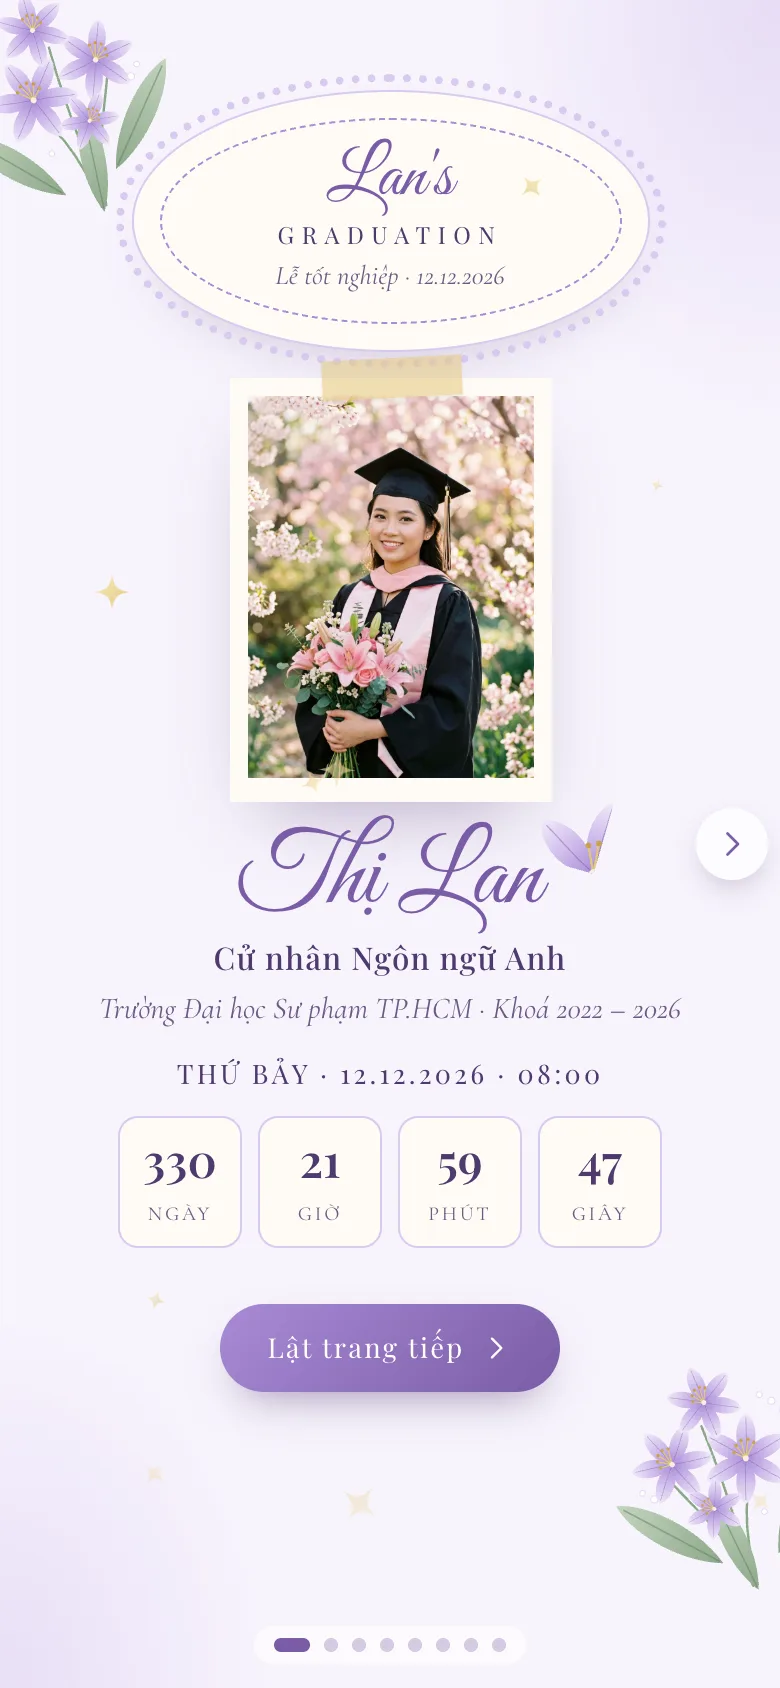
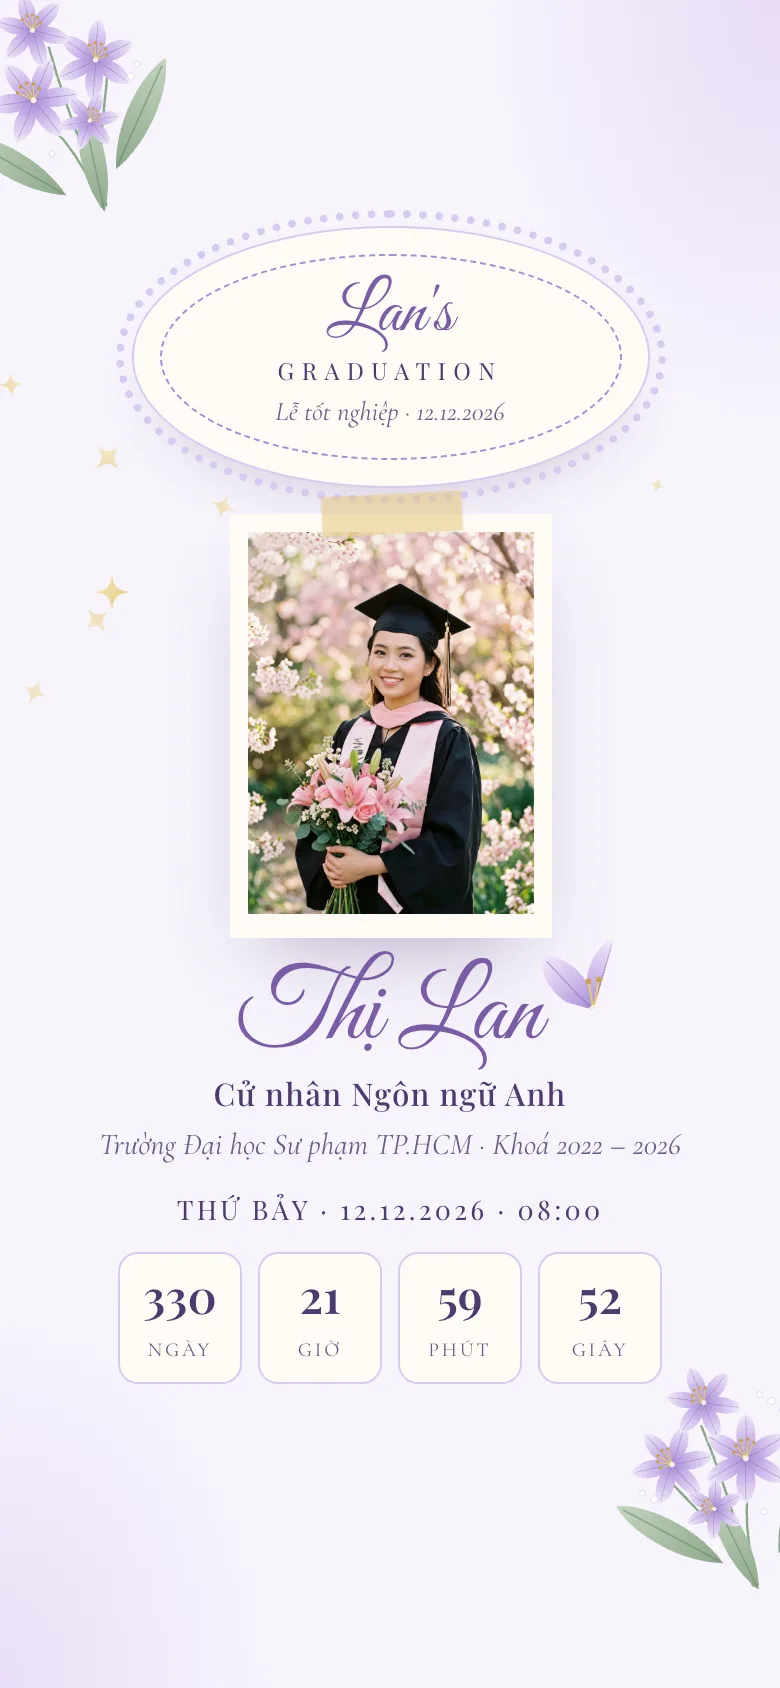
fix: thiệp #295 Lavender Storybook — mobile cuộn dọc, desktop giữ lật sách
- Bỏ pager vuốt ngang trên mobile/tablet: 8 trang xếp dọc, mỗi trang ≥ 1 màn hình, reveal bằng IntersectionObserver
- Desktop ≥ 1024px vẫn mở sách lật 3D 4 trang đôi
- Chụp lại shots, cập nhật mô tả catalog + prompt.txt

diff --git a/products/Invitation/Other/gen_295_tot-nghiep-storybook-flip/index.html b/products/Invitation/Other/gen_295_tot-nghiep-storybook-flip/index.html
@@ -91,7 +91,6 @@ a{color:var(--violet)}
 /* ===================== Pager mobile ===================== */
 #app{position:absolute; top:0; left:0; width:100%; height:100vh; height:100dvh; overflow:hidden; background:var(--lav-50)}
 #track{display:flex; height:100%; width:100%; will-change:transform; transition:transform .55s var(--ease)}
-#track.dragging{transition:none}
 .pg{flex:0 0 100%; width:100%; height:100%; position:relative; overflow-y:auto; overflow-x:hidden; overscroll-behavior:contain;
   touch-action:pan-y; -webkit-overflow-scrolling:touch; scrollbar-width:none; background:var(--lav-50)}
 .pg::-webkit-scrollbar{display:none}
@@ -112,16 +111,6 @@ a{color:var(--violet)}
 .next-btn svg{width:16px; height:16px}
 .center{display:flex; flex-direction:column; align-items:center}
 
-.arrow{position:absolute; z-index:20; top:50%; transform:translateY(-50%); width:36px; height:36px; border-radius:50%; border:0; cursor:pointer;
-  background:rgba(255,255,255,.78); color:var(--violet); box-shadow:0 6px 16px -6px rgba(78,58,110,.45); display:grid; place-items:center;
-  backdrop-filter:blur(6px); -webkit-backdrop-filter:blur(6px); transition:opacity .3s}
-.arrow.prev{left:6px} .arrow.next{right:6px}
-.arrow svg{width:18px; height:18px}
-.arrow[disabled]{opacity:0; pointer-events:none}
-#dots{position:absolute; z-index:20; left:50%; bottom:12px; transform:translateX(-50%); display:flex; gap:7px; padding:6px 10px; border-radius:20px;
-  background:rgba(255,255,255,.62); backdrop-filter:blur(8px); -webkit-backdrop-filter:blur(8px)}
-#dots button{width:7px; height:7px; border-radius:50%; border:0; background:rgba(122,91,166,.3); cursor:pointer; transition:width .3s, background .3s; padding:0}
-#dots button.on{width:18px; border-radius:4px; background:var(--violet)}
 .swipe-hint{position:absolute; z-index:21; left:50%; bottom:42px; transform:translateX(-50%); padding:8px 14px; border-radius:20px; white-space:nowrap;
   background:rgba(78,58,110,.86); color:#fff; font-family:var(--serif); font-size:.72rem; letter-spacing:.08em; opacity:0; transition:opacity .4s; pointer-events:none}
 .swipe-hint.show{opacity:1}
@@ -388,6 +377,19 @@ textarea.inp{min-height:86px; resize:vertical}
   .badge{width:min(70%,270px)} .hero-card{width:min(46%,180px); margin-top:20px} .hero-name{margin-top:12px} .pin{padding-top:52px}
 }
 
+/* ===================== Mobile/tablet: cuộn dọc từng trang (desktop mới lật sách) ===================== */
+@media not all and (min-width:1024px) and (min-height:560px){
+  body{height:auto; min-height:100dvh; overflow-x:hidden; overflow-y:auto}
+  body.hold{height:100dvh; overflow:hidden}
+  #app{position:relative; height:auto; overflow:visible}
+  #track{display:block; height:auto; transform:none !important; transition:none}
+  .pg{height:auto; overflow:visible; touch-action:auto}
+  .pin{min-height:100vh; min-height:100dvh; display:flex; flex-direction:column; justify-content:center}
+  .next-btn{display:none}
+  .swipe-hint{position:fixed; bottom:22px}
+  #fx,#wishLayer{position:fixed}
+}
+
 @media (prefers-reduced-motion:reduce){
   *,*::before,*::after{animation-duration:.01ms !important; animation-iteration-count:1 !important; transition-duration:.01ms !important}
   .rv{opacity:1; transform:none}
@@ -395,7 +397,7 @@ textarea.inp{min-height:86px; resize:vertical}
 }
 </style>
 </head>
-<body>
+<body class="hold">
 
 <svg class="defs" aria-hidden="true">
   <defs>
@@ -481,7 +483,7 @@ textarea.inp{min-height:86px; resize:vertical}
   <p class="cv-hint">Chạm vào con dấu để mở thiệp</p>
 </div>
 
-<!-- ===================== APP MOBILE: 8 TRANG LẬT NGANG ===================== -->
+<!-- ===================== MOBILE: 8 TRANG CUỘN DỌC (desktop chuyển thành sách lật) ===================== -->
 <div id="app">
   <div id="track">
 
@@ -722,10 +724,7 @@ textarea.inp{min-height:86px; resize:vertical}
 
   </div>
 
-  <button class="arrow prev" id="prevBtn" type="button" aria-label="Trang trước" disabled><svg aria-hidden="true"><use href="#i-arrow-l"/></svg></button>
-  <button class="arrow next" id="nextBtn" type="button" aria-label="Trang sau"><svg aria-hidden="true"><use href="#i-arrow-r"/></svg></button>
-  <nav id="dots" aria-label="Các trang thiệp"></nav>
-  <div class="swipe-hint scroll-hint" id="swipeHint">Vuốt sang trái để lật trang</div>
+  <div class="swipe-hint scroll-hint" id="swipeHint">Vuốt lên để xem tiếp</div>
 </div>
 
 <!-- ===================== DESKTOP: SÁCH 4 TRANG ĐÔI ===================== -->
@@ -920,56 +919,28 @@ textarea.inp{min-height:86px; resize:vertical}
     form.reset();
   });
 
-  /* ---------- Pager mobile ---------- */
-  const app = $('#app'), track = $('#track'), pages = $$('.pg', track), N = pages.length;
-  const dotsNav = $('#dots'), prevBtn = $('#prevBtn'), nextBtn = $('#nextBtn'), hint = $('#swipeHint');
-  dotsNav.innerHTML = pages.map((p, i) => `<button type="button" data-go="${i}" aria-label="${p.dataset.name}"></button>`).join('');
-  const dots = $$('button', dotsNav);
+  /* ---------- Mobile: cuộn dọc, mỗi section là một "trang" ---------- */
+  const app = $('#app'), track = $('#track'), pages = $$('.pg', track), N = pages.length, hint = $('#swipeHint');
   let page = 0, opened = false;
-  function go(p, keepScroll){
+  function go(p, smooth = true){
     page = Math.max(0, Math.min(N - 1, p));
-    track.style.transform = `translate3d(${-page * 100}%,0,0)`;
-    pages.forEach((s, i) => { const on = i === page; s.classList.toggle('on', on); if (on && !keepScroll) s.scrollTop = 0; s.setAttribute('aria-hidden', !on); });
-    dots.forEach((b, i) => b.classList.toggle('on', i === page));
-    prevBtn.disabled = page === 0; nextBtn.disabled = page === N - 1;
+    pages[page].classList.add('on');
+    pages[page].scrollIntoView({ behavior: smooth && !reduceMotion() ? 'smooth' : 'auto', block: 'start' });
     if (page === 4) loadMap();
-    if (page > 0) hint.classList.remove('show');
   }
-  prevBtn.addEventListener('click', () => go(page - 1));
-  nextBtn.addEventListener('click', () => go(page + 1));
-
-  (function swipe(){
-    let x0 = 0, y0 = 0, lock = null, w = 1, active = false, moved = false, pid = null;
-    const SKIP = 'iframe, textarea, input, select, .map, .no-swipe';
-    function onMove(e){
-      if (!active || e.pointerId !== pid) return;
-      const dx = e.clientX - x0, dy = e.clientY - y0;
-      if (lock === null){ if (Math.hypot(dx, dy) < 8) return; lock = Math.abs(dx) > Math.abs(dy) * 1.2 ? 'x' : 'y'; }
-      if (lock !== 'x') return;
-      moved = true;
-      let off = -page * w + dx;
-      if (off > 0) off *= .3; if (off < -(N - 1) * w) off = -(N - 1) * w + (off + (N - 1) * w) * .3;
-      track.classList.add('dragging');
-      track.style.transform = `translate3d(${off}px,0,0)`;
-    }
-    function onUp(e){
-      if (!active || e.pointerId !== pid) return;
-      active = false; track.classList.remove('dragging');
-      window.removeEventListener('pointermove', onMove); window.removeEventListener('pointerup', onUp); window.removeEventListener('pointercancel', onUp);
-      if (lock !== 'x' || e.type === 'pointercancel'){ go(page, true); return; }
-      const dx = e.clientX - x0;
-      go(Math.abs(dx) > w * .18 ? page + (dx < 0 ? 1 : -1) : page, true);
-      if (moved){ track.addEventListener('click', stopClick, { capture: true, once: true }); setTimeout(() => track.removeEventListener('click', stopClick, { capture: true }), 400); }
-    }
-    function stopClick(e){ e.preventDefault(); e.stopPropagation(); }
-    track.addEventListener('pointerdown', e => {
-      if (!e.isPrimary || e.button !== 0 || e.target.closest(SKIP)) return;
-      active = true; moved = false; lock = null; pid = e.pointerId;
-      x0 = e.clientX; y0 = e.clientY; w = app.clientWidth || innerWidth;
-      if (e.pointerType === 'mouse') e.preventDefault();
-      window.addEventListener('pointermove', onMove); window.addEventListener('pointerup', onUp); window.addEventListener('pointercancel', onUp);
+  const io = new IntersectionObserver(entries => {
+    entries.forEach(en => {
+      if (!en.isIntersecting) return;
+      const i = pages.indexOf(en.target);
+      en.target.classList.add('on');
+      if (i === 4) loadMap();
+      if (i > 0) hint.classList.remove('show');
     });
-  })();
+    const mid = innerHeight / 2;
+    const k = pages.findIndex(pg => { const r = pg.getBoundingClientRect(); return r.top <= mid && r.bottom > mid; });
+    if (k >= 0) page = k;
+  }, { threshold: [.12, .5] });
+  pages.forEach(pg => io.observe(pg));
 
   function showHint(){ hint.classList.add('show'); setTimeout(() => hint.classList.remove('show'), 2500); }
 
@@ -1041,7 +1012,7 @@ textarea.inp{min-height:86px; resize:vertical}
     } else {
       pins.forEach((pin, i) => pages[i].appendChild(pin));
       desk.hidden = true; app.hidden = false;
-      go(dIdx * 2);
+      go(dIdx * 2, false);
     }
   }
   DESK_Q.addEventListener('change', applyLayout);
@@ -1066,8 +1037,8 @@ textarea.inp{min-height:86px; resize:vertical}
     musicBtn.classList.add('show'); wishesToggle.classList.add('show');
     setTimeout(() => cover.classList.add('fade'), 850);
     setTimeout(() => {
-      cover.hidden = true;
-      if (deskOn) openBook(); else { go(0); showHint(); }
+      cover.hidden = true; document.body.classList.remove('hold');
+      if (deskOn) openBook(); else { go(0, false); showHint(); }
       startFx(); startWishes();
     }, 1350);
   }
@@ -1075,8 +1046,7 @@ textarea.inp{min-height:86px; resize:vertical}
 
   window.go = go; window.dGo = dGo;
   applyLayout();
-  track.style.transform = 'translate3d(0,0,0)';
-  if (!deskOn){ prevBtn.disabled = true; dots[0].classList.add('on'); }
+  if (!deskOn) pages[0].classList.add('on');
 })();
 </script>
 </body>

diff --git a/assets/js/data.js b/assets/js/data.js
@@ -5635,7 +5635,7 @@ const PRODUCTS = [
         id: 295,
         name: 'Thiệp Mời Tốt Nghiệp — Lavender Storybook Lật Trang',
         slug: 'thiep-moi-tot-nghiep-lavender-storybook-lat-trang',
-        description: 'Thiệp mời tốt nghiệp dạng sách lật từng trang — mobile vuốt ngang 8 trang, desktop mở sách lật 3D. Có câu chuyện 4 năm theo chương, album ảnh, lịch khoanh ngày, timeline, countdown, RSVP.',
+        description: 'Thiệp mời tốt nghiệp dạng sách lật — desktop mở sách lật 3D từng trang đôi, mobile cuộn dọc từng trang như thiệp thường. Có câu chuyện 4 năm theo chương, album ảnh, lịch khoanh ngày, timeline, countdown, RSVP.',
         category: 'other',
         type: 'invitation',
         style: '',
@@ -5653,7 +5653,7 @@ const PRODUCTS = [
         demoUrl: './products/Invitation/Other/gen_295_tot-nghiep-storybook-flip/index.html',
         variants: [],
         features: [
-            'Phong bì con dấu sáp tím, mở ra sách lật từng trang (vuốt ngang trên mobile, lật 3D trên desktop)',
+            'Phong bì con dấu sáp tím; desktop mở thành sách lật 3D 4 trang đôi, mobile cuộn dọc 8 trang',
             'Câu chuyện 4 năm theo chương + album 7 ảnh có lightbox',
             'Lịch khoanh ngày, ticket timeline, countdown, bản đồ, thêm vào lịch, RSVP 1 chạm',
         ],
